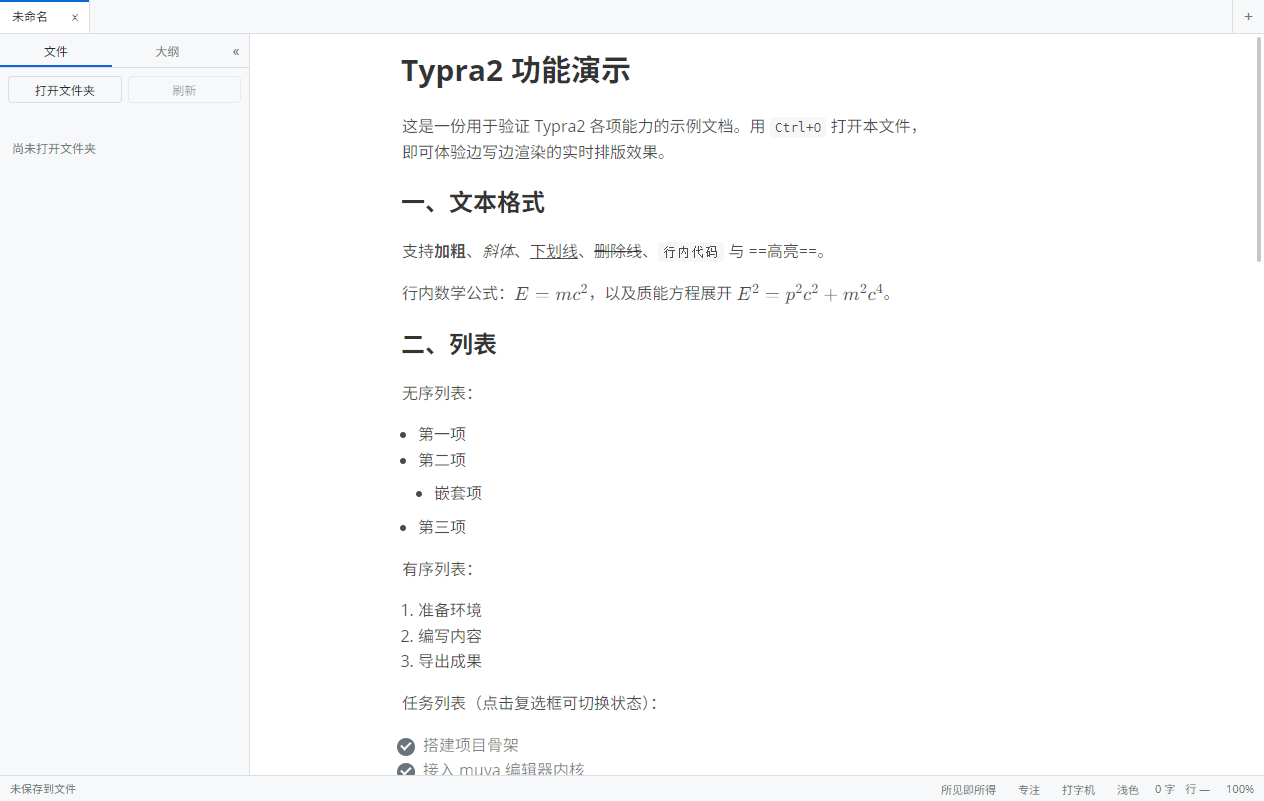
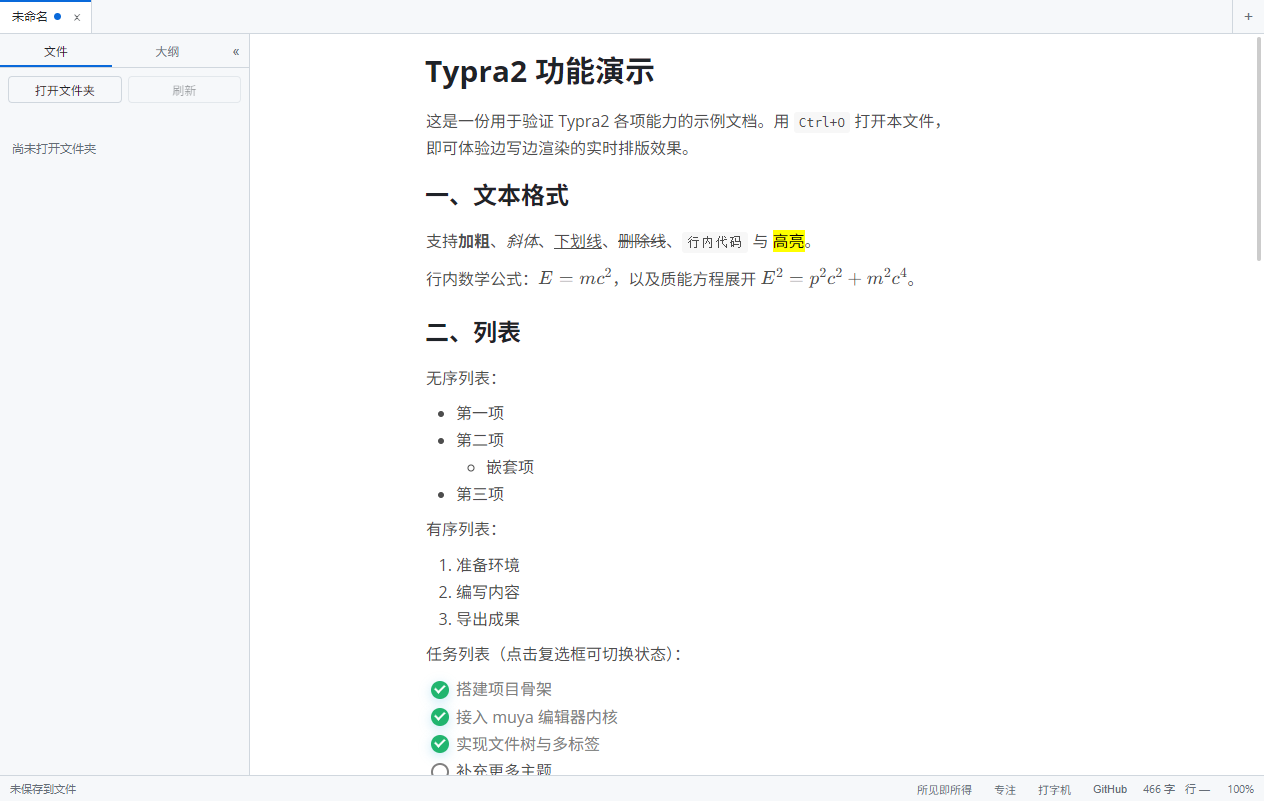
fix: 补齐缺失的文件命令，并把主题/命令注册纳入端到端自检
问题：file:open / file:openFolder / file:save / file:saveAs 从未注册，
菜单与快捷键（Ctrl+O、Ctrl+S）触发时静默失效。

修复：
- 注册全部文件命令（打开、打开文件夹、保存、另存为、全部保存、退出前确认）
- 应用退出统一走 file:quit 命令，避免两套未保存处理逻辑
- 主题切换、专注模式改为通过命令中心驱动，消除同步读 DOM 造成的误判

自检增强（新增均通过）：
- 内核公共 API 完整性校验（缺 API 直接失败）
- 命令中心实效校验：标题/列表/任务/加粗/表格真的改变文档内容
- 命令注册齐备性校验：36 条关键命令必须全部存在
- 主题配色校验：按编辑区背景亮度判断深色/浅色真的切换
- 查找替换、专注模式开关、长文档字数统计
- 新增像素采样脚本，客观核对截图配色

diff --git a/src/main/selfCheck.ts b/src/main/selfCheck.ts
@@ -279,6 +279,58 @@ export async function runSelfCheck(win: BrowserWindow): Promise<boolean> {
   }
   console.log('[selfcheck] 查找替换与专注模式 OK')
 
+  // 4b-4. 验证命令中心已注册全部菜单命令，且主题切换真的改变配色
+  const cmdCheck = await win.webContents.executeJavaScript(`
+    (async () => {
+      const c = window.__typraCommands
+      if (!c) return { error: '命令中心未暴露' }
+      const ids = c.ids()
+      const required = [
+        'file:new','file:open','file:openFolder','file:save','file:saveAs',
+        'file:exportHtml','file:exportPdf',
+        'edit:undo','edit:redo','edit:find','edit:replace',
+        'paragraph:h1','paragraph:h6','paragraph:p','paragraph:ul','paragraph:ol',
+        'paragraph:task','paragraph:quote','paragraph:code','paragraph:math','paragraph:table',
+        'format:strong','format:emphasis','format:strike','format:inlineCode','format:link',
+        'view:toggleSidebar','view:toggleOutline','view:toggleSource','view:toggleFocus',
+        'view:toggleTypewriter','view:toggleTheme','view:zoomIn','view:zoomOut',
+        'app:preferences'
+      ]
+      const missing = required.filter((r) => !ids.includes(r))
+      // 主题切换：连续切换到深色，读回编辑区背景色
+      for (let i = 0; i < 8; i++) {
+        if (document.body.classList.contains('theme-dark')) break
+        await c.execute('view:toggleTheme')
+        await new Promise((r) => setTimeout(r, 120))
+      }
+      const editor = document.querySelector('.muya-editor') || document.querySelector('.muya-container')
+      const darkBg = getComputedStyle(editor).backgroundColor
+      const darkClass = document.body.className
+      // 切回浅色
+      for (let i = 0; i < 8; i++) {
+        if (document.body.classList.contains('theme-light')) break
+        await c.execute('view:toggleTheme')
+        await new Promise((r) => setTimeout(r, 120))
+      }
+      const lightBg = getComputedStyle(editor).backgroundColor
+      return { missing, total: ids.length, darkBg, darkClass, lightBg }
+    })()
+  `)
+  if (cmdCheck.error || cmdCheck.missing?.length) {
+    console.error('[selfcheck] FAIL: 命令中心缺少命令:', JSON.stringify(cmdCheck))
+    return false
+  }
+  const bg = (s: string) => (String(s).match(/\d+/g) || []).slice(0, 3).map(Number)
+  const darkLum = bg(cmdCheck.darkBg).reduce((a, b) => a + b, 0) / 3
+  const lightLum = bg(cmdCheck.lightBg).reduce((a, b) => a + b, 0) / 3
+  if (!(darkLum < 90 && lightLum > 200)) {
+    console.error('[selfcheck] FAIL: 主题配色未生效:', JSON.stringify(cmdCheck))
+    return false
+  }
+  console.log(
+    `[selfcheck] 命令中心 ${cmdCheck.total} 条命令齐备，主题切换 OK（深色 ${darkLum.toFixed(0)} / 浅色 ${lightLum.toFixed(0)}）`
+  )
+
   // 4c. 验证导出：静态 HTML 生成且包含标题与表格
   const exported = await win.webContents.executeJavaScript(`
     (async () => {
@@ -312,6 +364,25 @@ export async function runSelfCheck(win: BrowserWindow): Promise<boolean> {
     console.error('[selfcheck] FAIL: 状态栏行号格式错误:', statusText)
     return false
   }
+
+  // 5b. 字数统计必须随文档内容变化（用较长文档验证，而非空文档）
+  const countCheck = await win.webContents.executeJavaScript(`
+    (async () => {
+      const muya = window.__typraMuya
+      const wait = (ms) => new Promise((r) => setTimeout(r, ms))
+      const long = '# 中文标题\\n\\n' + '这是一段用于统计的中文正文内容。'.repeat(20) + '\\n'
+      window.__typraLoad(long)
+      await wait(900)
+      const text = document.querySelector('.status-bar')?.innerText || ''
+      const m = text.match(/(\\d+)\\s*字/)
+      return { shown: m ? Number(m[1]) : -1, expected: long.length, raw: text }
+    })()
+  `)
+  if (countCheck.shown <= 0) {
+    console.error('[selfcheck] FAIL: 长文档下字数统计仍为 0:', JSON.stringify(countCheck.raw))
+    return false
+  }
+  console.log(`[selfcheck] 字数统计 OK: ${countCheck.shown} 字`)
 
   console.log('[selfcheck] shell:', JSON.stringify(shell))
   console.log('[selfcheck] statusbar:', statusText.replace(/\s+/g, ' ').trim())

diff --git a/src/main/screenshot.ts b/src/main/screenshot.ts
@@ -25,13 +25,12 @@ export async function captureScreenshots(win: BrowserWindow, outDir: string): Pr
     return false
   }
 
-  // 灌入演示文档
+  // 灌入演示文档（走应用级载入路径，字数统计与大纲同步刷新）
   const demo = await fsp.readFile('E:\\Desktop\\JX\\07-DSH\\02-typra2\\examples\\demo.md', 'utf8')
   await win.webContents.executeJavaScript(`
     (async () => {
-      const muya = window.__typraMuya
-      muya.setContent(${JSON.stringify(demo)}, false)
-      await new Promise((r) => setTimeout(r, 1200))
+      window.__typraLoad(${JSON.stringify(demo)})
+      await new Promise((r) => setTimeout(r, 1500))
       return true
     })()
   `)
@@ -60,15 +59,46 @@ export async function captureScreenshots(win: BrowserWindow, outDir: string): Pr
   await new Promise((r) => setTimeout(r, 600))
   await shoot('02-outline')
 
-  // 深色主题
-  await win.webContents.executeJavaScript(`
-    (() => {
-      document.body.className = document.body.className.replace(/theme-[a-z]+/g, '').trim()
-      document.body.classList.add('theme-dark')
-      return true
+  // 诊断：确认命令中心已注册哪些命令，以及主题命令是否可执行
+  const cmdDiag = await win.webContents.executeJavaScript(`
+    (async () => {
+      const c = window.__typraCommands
+      if (!c) return { error: '命令中心未暴露' }
+      const ids = c.ids()
+      const before = document.body.className
+      await c.execute('view:toggleTheme')
+      await new Promise((r) => setTimeout(r, 200))
+      return {
+        hasToggleTheme: c.has('view:toggleTheme'),
+        totalCommands: ids.length,
+        sample: ids.slice(0, 12),
+        before,
+        after: document.body.className
+      }
     })()
   `)
-  await new Promise((r) => setTimeout(r, 600))
+  console.log('[shot] 命令诊断:', JSON.stringify(cmdDiag))
+
+  // 深色主题：通过命令中心连续切换，直到进入深色
+  const darkInfo = await win.webContents.executeJavaScript(`
+    (async () => {
+      const c = window.__typraCommands
+      for (let i = 0; i < 8; i++) {
+        if (document.body.classList.contains('theme-dark')) break
+        await c.execute('view:toggleTheme')
+        await new Promise((r) => setTimeout(r, 150))
+      }
+      const editor = document.querySelector('.muya-editor') || document.querySelector('.muya-container')
+      const cs = getComputedStyle(editor)
+      return {
+        bodyClass: document.body.className,
+        editorBg: cs.backgroundColor,
+        editorColor: cs.color
+      }
+    })()
+  `)
+  console.log('[shot] 深色主题:', JSON.stringify(darkInfo))
+  await new Promise((r) => setTimeout(r, 800))
   await shoot('03-dark')
 
   // 源码模式
@@ -80,20 +110,23 @@ export async function captureScreenshots(win: BrowserWindow, outDir: string): Pr
       return true
     })()
   `)
-  await new Promise((r) => setTimeout(r, 800))
+  await new Promise((r) => setTimeout(r, 1000))
   await shoot('04-source')
 
   // 恢复浅色与所见即所得
   await win.webContents.executeJavaScript(`
-    (() => {
-      document.body.className = document.body.className.replace(/theme-[a-z]+/g, '').trim()
-      document.body.classList.add('theme-light')
-      const btns = [...document.querySelectorAll('.status-btn')]
-      const src = btns.find((b) => b.textContent.includes('源码'))
-      src && src.click()
+    (async () => {
+      const c = window.__typraCommands
+      for (let i = 0; i < 8; i++) {
+        if (document.body.classList.contains('theme-light')) break
+        await c.execute('view:toggleTheme')
+        await new Promise((r) => setTimeout(r, 150))
+      }
+      await c.execute('view:toggleSource')
       return true
     })()
   `)
+  await new Promise((r) => setTimeout(r, 600))
 
   console.log('[shot] PASS: 截图完成')
   return true

diff --git a/src/renderer/src/composables/useCommands.ts b/src/renderer/src/composables/useCommands.ts
@@ -1,4 +1,5 @@
-import { getActiveTab, state, persistView, createTab, closeTab } from '../store'
+import { getActiveTab, state, persistView, createTab, closeTab, hasUnsavedTabs, isDirty } from '../store'
+import { useFile } from './useFile'
 
 type CommandHandler = (payload?: unknown) => void | Promise<void>
 
@@ -17,6 +18,16 @@ export function registerCommands(map: Record<string, CommandHandler>): void {
 export async function executeCommand(id: string, payload?: unknown): Promise<void> {
   const handler = handlers.get(id)
   if (handler) await handler(payload)
+}
+
+/** 命令是否已注册（自检用）。 */
+export function hasCommand(id: string): boolean {
+  return handlers.has(id)
+}
+
+/** 已注册命令 id 列表（自检用）。 */
+export function listCommandIds(): string[] {
+  return [...handlers.keys()].sort()
 }
 
 /** 全局视图类命令，与编辑器无关，应用启动时注册一次。 */
@@ -66,6 +77,46 @@ export function registerGlobalCommands(): void {
     },
     'file:closeTab': () => {
       if (state.activeId) closeTab(state.activeId)
+    },
+    // 文件读写命令：这些是菜单与快捷键的主入口，必须注册，否则 Ctrl+O/Ctrl+S 会静默失效
+    'file:open': async () => {
+      const { openDialog } = useFile()
+      await openDialog()
+    },
+    'file:openFolder': async () => {
+      const { openFolder } = useFile()
+      await openFolder()
+    },
+    'file:save': async () => {
+      const { saveTab } = useFile()
+      await saveTab()
+    },
+    'file:saveAs': async () => {
+      const { saveTab } = useFile()
+      await saveTab(getActiveTab(), true)
+    },
+    'file:saveAll': async () => {
+      const { saveAll } = useFile()
+      await saveAll()
+    },
+    // 关闭窗口前先处理未保存内容
+    'file:quit': async () => {
+      if (!hasUnsavedTabs()) {
+        window.typra.quit()
+        return
+      }
+      const answer = await window.typra.messageBox('有未保存的改动', '是否保存后再退出？', [
+        '保存并退出',
+        '直接退出',
+        '取消'
+      ])
+      if (answer === 0) {
+        const { saveAll } = useFile()
+        await saveAll()
+        window.typra.quit()
+      } else if (answer === 1) {
+        window.typra.quit()
+      }
     },
     'edit:find': () => {
       state.findMode = 'find'

diff --git a/src/renderer/src/components/EditorHost.vue b/src/renderer/src/components/EditorHost.vue
@@ -1,7 +1,7 @@
 <script setup lang="ts">
 import { computed, onMounted, onBeforeUnmount, ref, watch, nextTick } from 'vue'
 import { Muya, registerMuyaPlugins, buildMuyaOptions, setDocPathForImages } from '../editor/muyaSetup'
-import { registerCommands, registerGlobalCommands } from '../composables/useCommands'
+import { registerCommands, registerGlobalCommands, executeCommand, hasCommand, listCommandIds } from '../composables/useCommands'
 import { exportHtml, exportPdf, buildHtmlForCheck } from '../composables/useExport'
 
 // 供主进程端到端自检调用
@@ -114,6 +114,20 @@ function mountEditor(): void {
 
   updateCounts(tab?.content ?? '')
   refreshOutline()
+
+  // 应用级载入钩子：走与界面相同的路径（载入内容 + 刷新字数与大纲），
+  // 供主进程自检与截图使用，避免直接调用 muya.setContent 绕过 Vue 状态。
+  ;(window as unknown as Record<string, unknown>).__typraLoad = (markdown: string) => {
+    const t = activeTab.value
+    if (!t || !muya) return false
+    suppress = true
+    muya.setContent(markdown, false)
+    suppress = false
+    t.content = markdown
+    updateCounts(markdown)
+    refreshOutline()
+    return true
+  }
 }
 
 /** 把某个标签的内容载入编辑器。 */
@@ -359,6 +373,12 @@ onMounted(() => {
   registerGlobalCommands()
   mountEditor()
   registerEditorCommands()
+  // 暴露命令中心与已注册命令，供主进程自检核对
+  ;(window as unknown as Record<string, unknown>).__typraCommands = {
+    execute: executeCommand,
+    has: (id: string) => hasCommand(id),
+    ids: () => listCommandIds()
+  }
   window.addEventListener('typra:find', onFind)
   window.addEventListener('typra:find-close', onFindClose)
   window.addEventListener('typra:settings-changed', onSettingsChanged)

diff --git a/src/renderer/src/App.vue b/src/renderer/src/App.vue
@@ -67,6 +67,8 @@ onMounted(async () => {
   registerGlobalCommands()
   loadSettings()
   loadRecent()
+  // 标题栏/状态栏的未保存改动检查在应用退出前触发
+  ;(window as unknown as Record<string, unknown>).__typraQuit = () => executeCommand('file:quit')
 
   const off = window.typra.onMenuCommand(onMenuCommand)
   window.addEventListener('beforeunload', onBeforeUnload)
@@ -106,23 +108,7 @@ onMounted(async () => {
 
 /** 未保存改动时先询问，避免直接关窗丢内容。 */
 async function tryQuit(): Promise<void> {
-  if (!hasUnsavedTabs()) {
-    window.typra.quit()
-    return
-  }
-  const answer = await window.typra.messageBox('有未保存的改动', '是否保存后再退出？', [
-    '保存并退出',
-    '直接退出',
-    '取消'
-  ])
-  if (answer === 0) {
-    for (const tab of state.tabs) {
-      if (isDirty(tab)) await saveTab(tab)
-    }
-    window.typra.quit()
-  } else if (answer === 1) {
-    window.typra.quit()
-  }
+  await executeCommand('file:quit')
 }
 </script>
 

diff --git a/scripts/sample-pixels.py b/scripts/sample-pixels.py
@@ -1,0 +1,26 @@
+"""采样截图关键区域的像素颜色，客观判断主题是否真正生效。"""
+import sys
+from PIL import Image
+
+path = sys.argv[1] if len(sys.argv) > 1 else r'E:\Desktop\JX\07-DSH\02-typra2\screenshots\03-dark.png'
+im = Image.open(path).convert('RGB')
+w, h = im.size
+print(f'图像尺寸: {w}x{h}')
+
+# 取几个代表性区域的平均色：侧边栏、编辑区中部、状态栏
+regions = {
+    '侧边栏': (10, 400, 240, 500),
+    '编辑区空白处': (900, 700, 1100, 760),
+    '编辑区中部右侧': (1000, 300, 1150, 400),
+    '状态栏': (400, h - 20, 900, h - 6),
+    '顶部标签栏': (600, 8, 900, 30),
+}
+
+for name, box in regions.items():
+    box = (box[0], box[1], min(box[2], w - 1), min(box[3], h - 1))
+    crop = im.crop(box)
+    pixels = list(crop.getdata())
+    n = len(pixels)
+    avg = tuple(sum(p[i] for p in pixels) // n for i in range(3))
+    lum = 0.299 * avg[0] + 0.587 * avg[1] + 0.114 * avg[2]
+    print(f'{name:14s} 平均 RGB={avg}  亮度={lum:.1f}')
